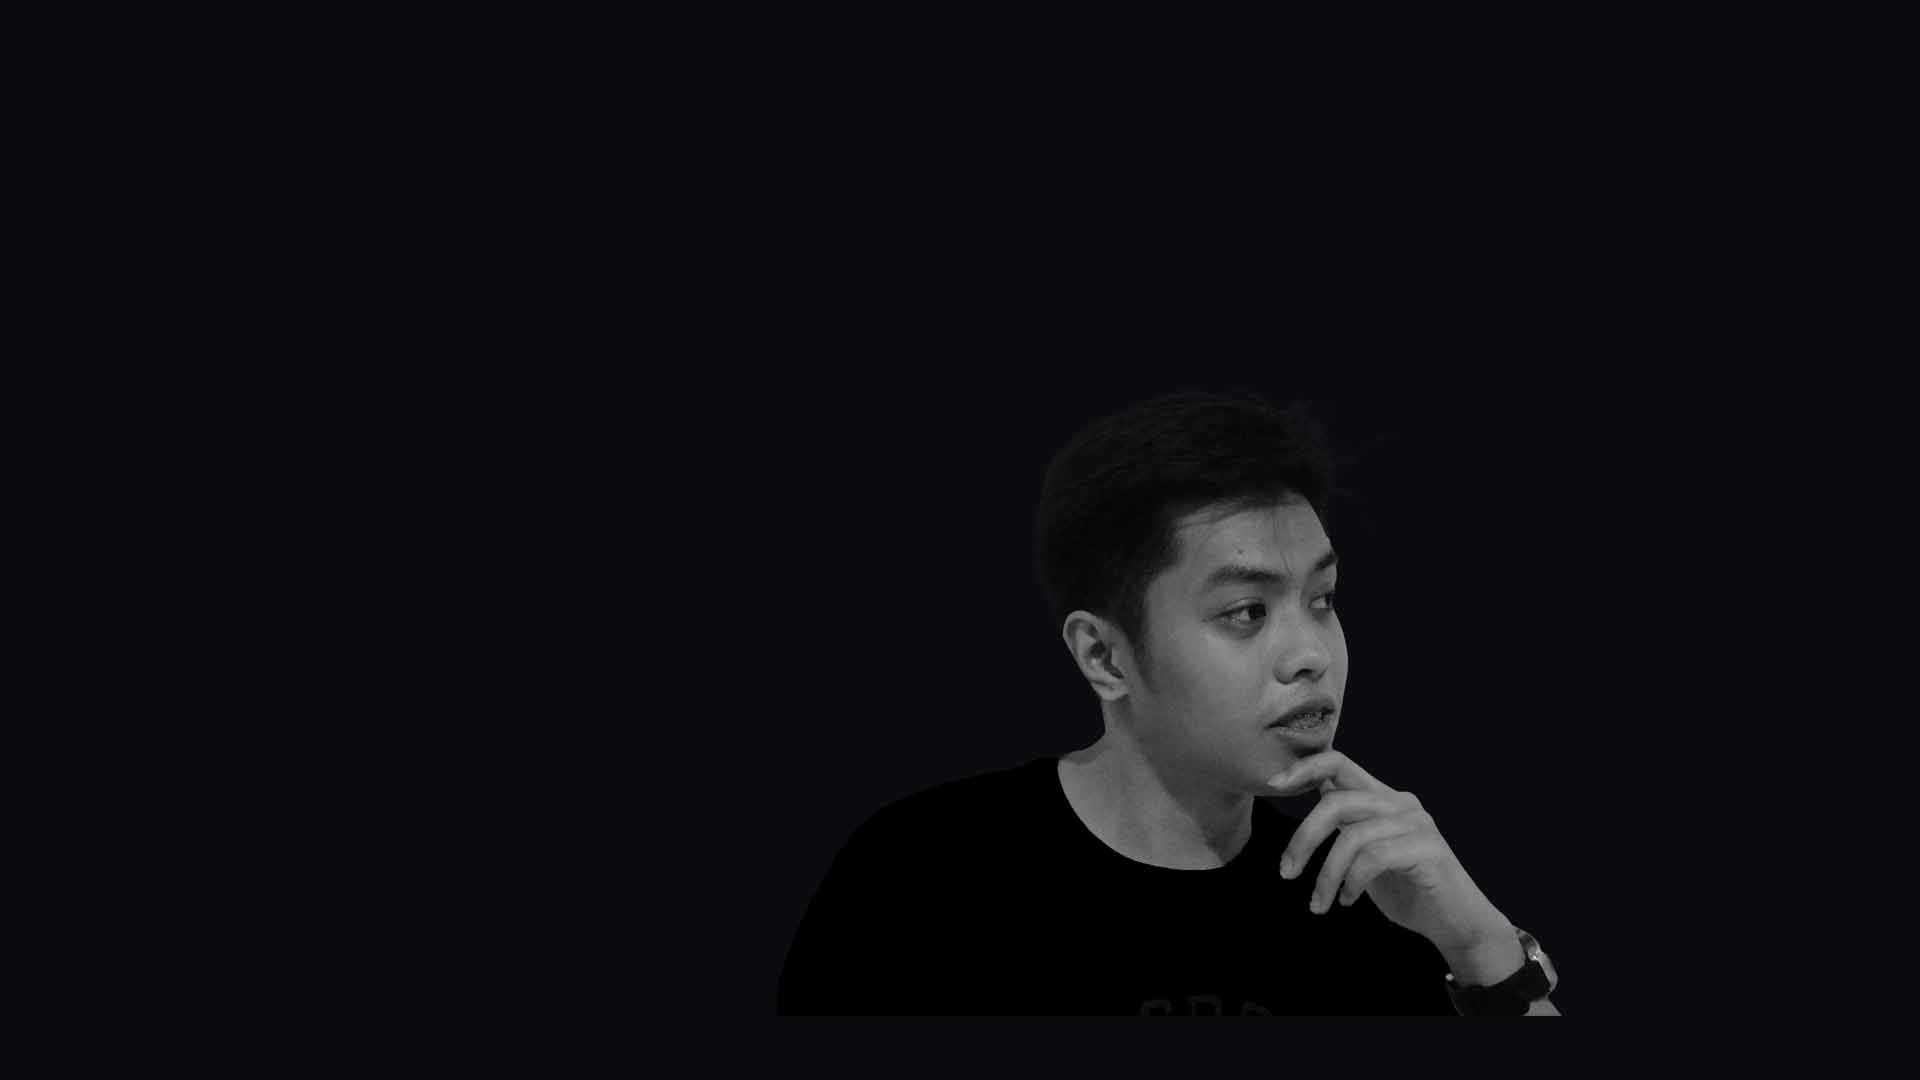
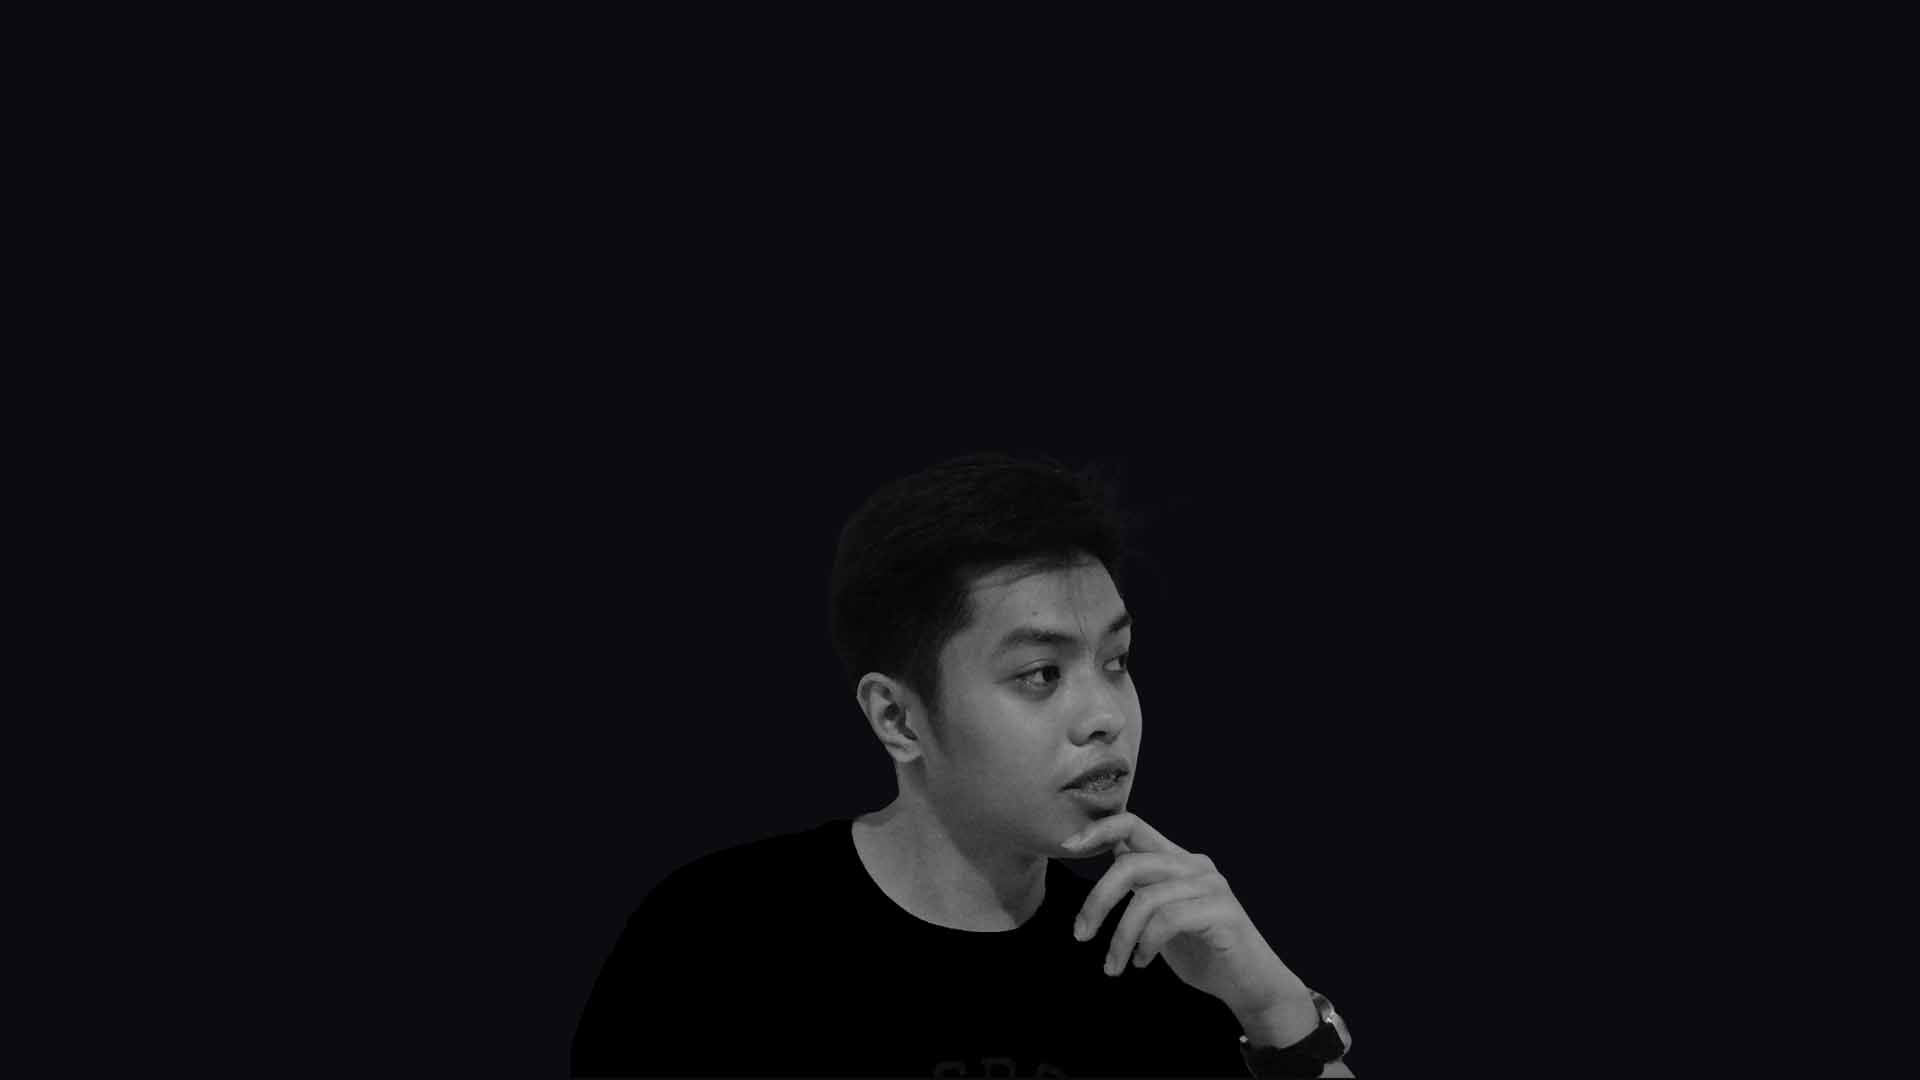
Added social media project

Changed region(s): [[0.4375, 0.4583, 0.8125, 1.0]]

diff --git a/src/components/ImageCard.js b/src/components/ImageCard.js
@@ -31,6 +31,7 @@ const useStyles = makeStyles(() => ({
   },
   viewPopup: {
     fontSize: "2",
+    color: "#00000",
     position: "absolute",
     top: "50%",
     left: "50%",
@@ -59,7 +60,7 @@ export default function ImgMediaCard({ project }) {
 
   return (
     <>
-      <Link href={project.link}>
+      <Link href={project.link} target="_blank">
         <motion.div
           variants={cardVariant}
           onMouseEnter={() => setView(true)}
@@ -81,7 +82,7 @@ export default function ImgMediaCard({ project }) {
                   <h2>{project.title}</h2>
                 </div>
                 <div className={classes.viewPopup}>
-                  <h2>View</h2>
+                  <h2 style={{ color: "#C5C6C7" }}>View</h2>
                 </div>
               </>
             )}

diff --git a/src/static/projects.js b/src/static/projects.js
@@ -1,14 +1,14 @@
 const projects = [
   {
-    title: "Invetory System",
-    desc: " Using Php and Laravel",
-    imageUrl: "/assets/project.jpg",
-    link: "",
+    title: "Social Media",
+    desc: " Using Next Js , Express ,Node JS , Socket.IO",
+    imageUrl: "/assets/SocialMedia.jpg",
+    link: "https://jer-social-media.herokuapp.com/login",
     time: 1500,
   },
   {
-    title: "Chat Messaging",
-    desc: "Using Mern Stack and Socket.io",
+    title: "Inventory System",
+    desc: "Using MernStack",
     imageUrl: "/assets/project.jpg",
     link: "",
     time: 1500,

diff --git a/src/components/Header.js b/src/components/Header.js
@@ -20,13 +20,13 @@ const useStyles = makeStyles((theme) => ({
     display: "flex",
     justifyContent: "center",
     alignItems: "center",
-    minHeight: "100vh",
+    minHeight: "80vh",
     color: "#fff",
     fontFamily: "Roboto ",
     backgroundImage: `url(${"/assets/layout.jpg"})`,
     backgroundRepeat: "no-repeat",
     backgroundSize: "cover",
-    backgroundPosition: "center",
+    backgroundPosition: "center bottom",
   },
   appBar: {
     background: "none",

diff --git a/src/components/Footer.js b/src/components/Footer.js
@@ -54,7 +54,7 @@ function Footer() {
           </span>
         </Button>
       </div>
-      <footer>www.heroku-jer-portfolio.com</footer>
+      <footer>jer-portfolio.herokuapp.com</footer>
     </Container>
   );
 }
